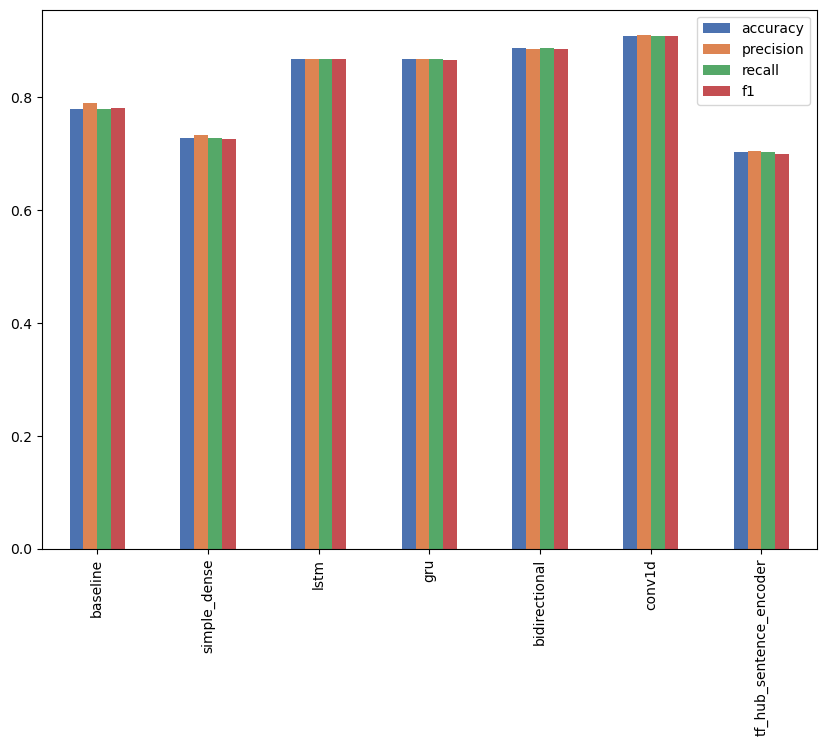
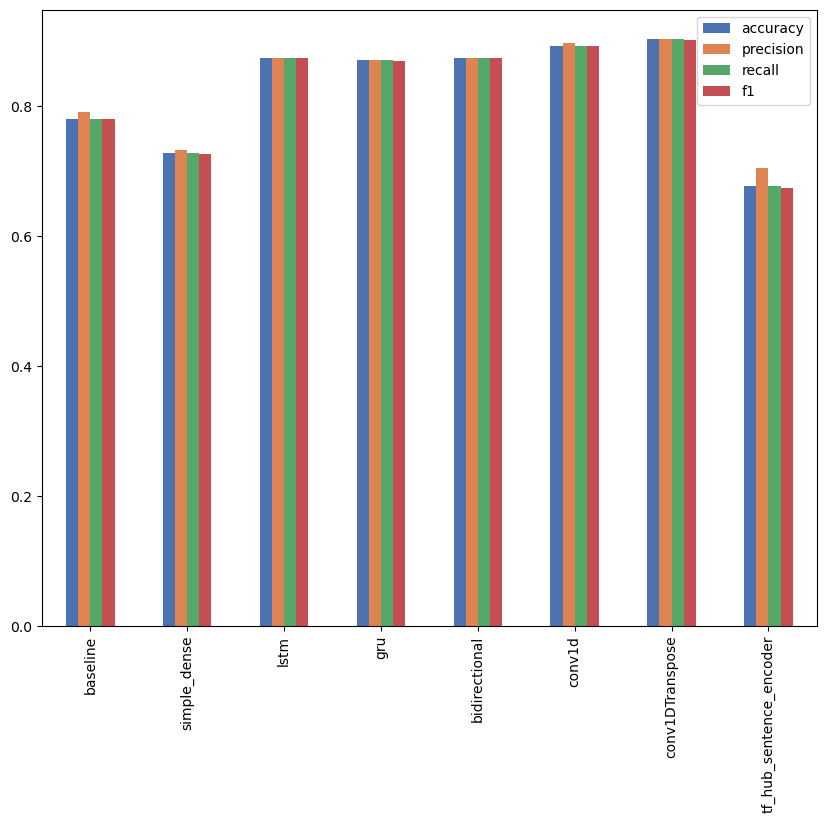
Update README

diff --git a/README.md b/README.md
@@ -20,21 +20,18 @@ Random oversampling was used in order to tackle the issue of imbalanced data, th
 
 In this project, the following series of models/architectures will be applied, we'll then compare the results of each model and see which one performed best:
 
-<br />
-
 - Model 0: Naive Bayes - Baseline
 - Model 1: Feed-Forward Neural Network (FNN)
 - Model 2: Long Short-Term Memory (LSTM)
 - Model 3: Gated Recurrent Unit (GRU)
 - Model 4: Bidirectional-LSTM (BiLSTM)
 - Model 5: 1D Convolutional Neural Network (Conv1D)
-- Model 6: TensorFlow Hub Pretrained Feature Extractor
-
-<br />
+- Model 6: Transposed Convolution Layer (Conv1DTranspose)
+- Model 7: TensorFlow Hub Pretrained Feature Extractor
 
 ## **Performance Evaluation**
 
-The model demonstrating the highest performance was identified as Conv1D, attained an accuracy score of 90.94% along with an f1-score of 0.91 and above for all label categories (positive, neutral, and negative). This model shows the ability to precisely predict labels based on the ChatGPT iOS reviews.
+The model demonstrating the highest performance was identified as Conv1DTranspose, attained an accuracy score of 90.29% along with an f1-score of 0.9 and above for all label categories (positive, neutral, and negative). This model shows the ability to precisely predict labels based on the ChatGPT iOS reviews.
 
 With the developed sentiment analysis model, we can successfully analyze and comprehend the sentiments conveyed in ChatGPT reviews. This provides valuable insights for businesses, helping them make invaluable conclusions, enhance customer satisfaction, and their products and services based on customer feedback.
 
